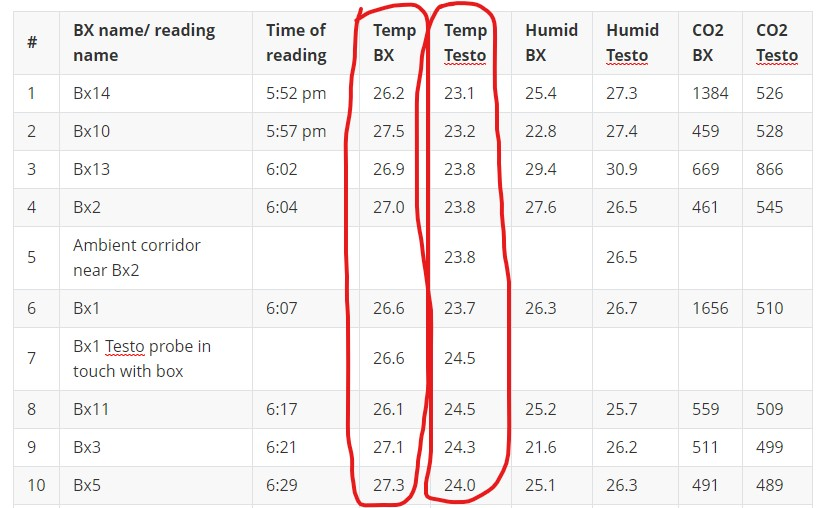
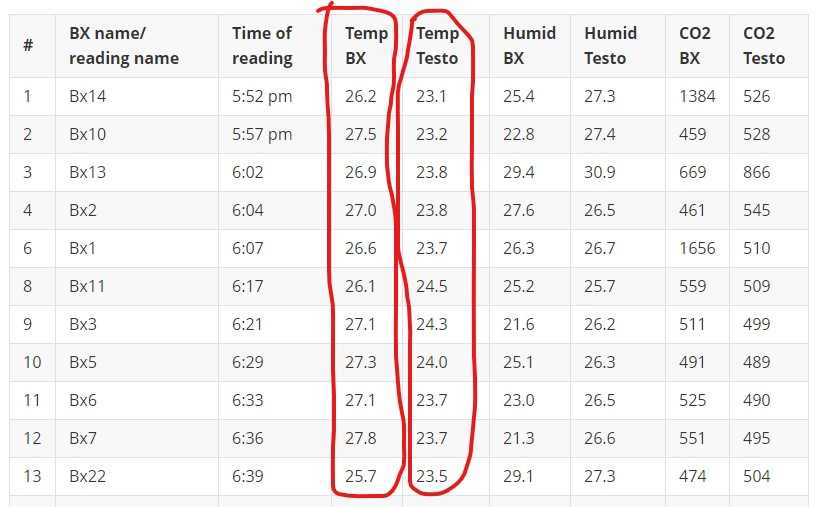
Moved the auxiliary readings outside the comparison table

diff --git a/COACH/docs/Visit log/Readme.md b/COACH/docs/Visit log/Readme.md
@@ -51,30 +51,35 @@
 
    
 
+| #    | BX name/ reading name     | Time of reading | Temp BX | Temp Testo | Humid BX | Humid Testo | CO2 BX | CO2 Testo |
+| ---- | ------------------------- | --------------- | ------- | ---------- | -------- | ----------- | ------ | --------- |
+| 1    | Bx14                      | 5:52 pm         | 26.2    | 23.1       | 25.4     | 27.3        | 1384   | 526       |
+| 2    | Bx10                      | 5:57 pm         | 27.5    | 23.2       | 22.8     | 27.4        | 459    | 528       |
+| 3    | Bx13                      | 6:02            | 26.9    | 23.8       | 29.4     | 30.9        | 669    | 866       |
+| 4    | Bx2                       | 6:04            | 27.0    | 23.8       | 27.6     | 26.5        | 461    | 545       |
+| 6    | Bx1                       | 6:07            | 26.6    | 23.7       | 26.3     | 26.7        | 1656   | 510       |
+| 8    | Bx11                      | 6:17            | 26.1    | 24.5       | 25.2     | 25.7        | 559    | 509       |
+| 9    | Bx3                       | 6:21            | 27.1    | 24.3       | 21.6     | 26.2        | 511    | 499       |
+| 10   | Bx5                       | 6:29            | 27.3    | 24.0       | 25.1     | 26.3        | 491    | 489       |
+| 11   | Bx6                       | 6:33            | 27.1    | 23.7       | 23.0     | 26.5        | 525    | 490       |
+| 12   | Bx7                       | 6:36            | 27.8    | 23.7       | 21.3     | 26.6        | 551    | 495       |
+| 13   | Bx22                      | 6:39            | 25.7    | 23.5       | 29.1     | 27.3        | 474    | 504       |
+| 14   | Bx23                      | 6:42            | 27.3    | 23.8       | 27.2     | 26.7        | 491    | 500       |
+| 15   | Bx24                      | 6:46            | 27.4    | 24.5       | 28.6     | 26.6        | 499    | 511       |
+| 16   | Bx25                      | 6:49            | 27.4    | 24.8       | 27.3     | 25.5        | 581    | 497       |
+| 17   | Bx26                      | 6:54            | 26.7    | 24.6       | 26.6     | 24.1        | 513    | 456       |
+| 18   | Bx19 (I felt colder here) | 7:03            | 24.7    | 22.8       | 25.8     | 26.1        | 510    | 466       |
+| 19   | Bx20 (I felt colder here) | 7:05            | 23.7    | 22.5       | 29.1     | 28.8        | 494    | 475       |
+| 20   | Bx21                      | 7:18            | 26.2    | 22.2       | 26.7     | 27.2        | 566    | 553       |
+| 21   | Bx18                      | 7:20            | 24.6    | 22.5       | 24.4     | 26.3        | 749    | 487       |
+| 22   | Bx16                      | 7:25            | 25.8    | 23.1       | 22.5     | 26.1        | 507    | 487       |
+
+Auxiliary readings:
+
 | #    | BX name/ reading name             | Time of reading | Temp BX | Temp Testo | Humid BX | Humid Testo | CO2 BX | CO2 Testo |
 | ---- | --------------------------------- | --------------- | ------- | ---------- | -------- | ----------- | ------ | --------- |
-| 1    | Bx14                              | 5:52 pm         | 26.2    | 23.1       | 25.4     | 27.3        | 1384   | 526       |
-| 2    | Bx10                              | 5:57 pm         | 27.5    | 23.2       | 22.8     | 27.4        | 459    | 528       |
-| 3    | Bx13                              | 6:02            | 26.9    | 23.8       | 29.4     | 30.9        | 669    | 866       |
-| 4    | Bx2                               | 6:04            | 27.0    | 23.8       | 27.6     | 26.5        | 461    | 545       |
-| 5    | Ambient corridor near Bx2         |                 |         | 23.8       |          | 26.5        |        |           |
-| 6    | Bx1                               | 6:07            | 26.6    | 23.7       | 26.3     | 26.7        | 1656   | 510       |
+| 1    | Ambient corridor near Bx2         |                 |         | 23.8       |          | 26.5        |        |           |
 | 7    | Bx1 Testo probe in touch with box |                 | 26.6    | 24.5       |          |             |        |           |
-| 8    | Bx11                              | 6:17            | 26.1    | 24.5       | 25.2     | 25.7        | 559    | 509       |
-| 9    | Bx3                               | 6:21            | 27.1    | 24.3       | 21.6     | 26.2        | 511    | 499       |
-| 10   | Bx5                               | 6:29            | 27.3    | 24.0       | 25.1     | 26.3        | 491    | 489       |
-| 11   | Bx6                               | 6:33            | 27.1    | 23.7       | 23.0     | 26.5        | 525    | 490       |
-| 12   | Bx7                               | 6:36            | 27.8    | 23.7       | 21.3     | 26.6        | 551    | 495       |
-| 13   | Bx22                              | 6:39            | 25.7    | 23.5       | 29.1     | 27.3        | 474    | 504       |
-| 14   | Bx23                              | 6:42            | 27.3    | 23.8       | 27.2     | 26.7        | 491    | 500       |
-| 15   | Bx24                              | 6:46            | 27.4    | 24.5       | 28.6     | 26.6        | 499    | 511       |
-| 16   | Bx25                              | 6:49            | 27.4    | 24.8       | 27.3     | 25.5        | 581    | 497       |
-| 17   | Bx26                              | 6:54            | 26.7    | 24.6       | 26.6     | 24.1        | 513    | 456       |
-| 18   | Bx19 (I felt colder here)         | 7:03            | 24.7    | 22.8       | 25.8     | 26.1        | 510    | 466       |
-| 19   | Bx20 (I felt colder here)         | 7:05            | 23.7    | 22.5       | 29.1     | 28.8        | 494    | 475       |
-| 20   | Bx21                              | 7:18            | 26.2    | 22.2       | 26.7     | 27.2        | 566    | 553       |
-| 21   | Bx18                              | 7:20            | 24.6    | 22.5       | 24.4     | 26.3        | 749    | 487       |
-| 22   | Bx16                              | 7:25            | 25.8    | 23.1       | 22.5     | 26.1        | 507    | 487       |
 
 # BX2 visit 11/4/2024 ~ 5:30 pm
 
